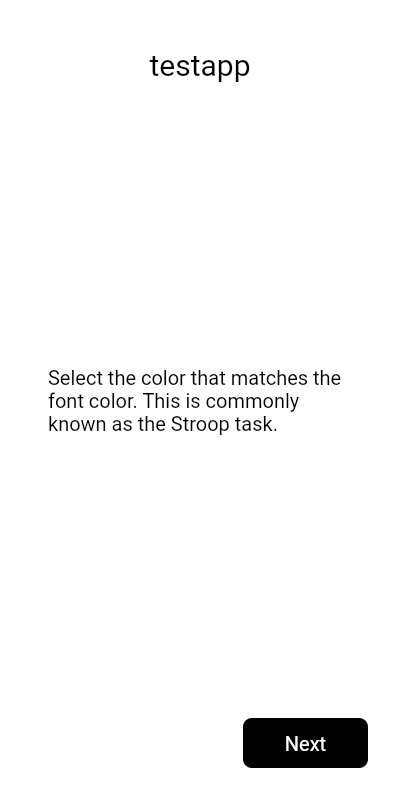
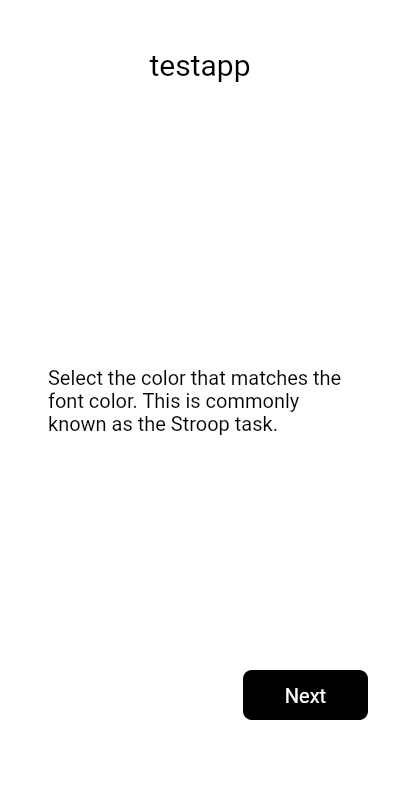
Move instructions buttons up 48 px so not hidden by mobile browser bottom bars

Changed region(s): [[0.6, 0.8125, 0.93, 0.9688]]

diff --git a/packages/addons/src/stories/instructions.ts b/packages/addons/src/stories/instructions.ts
@@ -269,7 +269,7 @@ export class Instructions extends Story {
           size: { width: backButtonWidth, height: backButtonHeight },
           layout: {
             marginStart: 32,
-            marginBottom: 32,
+            marginBottom: 80,
             constraints: { bottomToBottomOf: scene, startToStartOf: scene },
           },
         });
@@ -291,7 +291,7 @@ export class Instructions extends Story {
         size: { width: nextButtonWidth, height: nextButtonHeight },
         layout: {
           marginEnd: 32,
-          marginBottom: 32,
+          marginBottom: 80,
           constraints: { bottomToBottomOf: scene, endToEndOf: scene },
         },
       });

diff --git a/integration-tests/cli-test/specs/testApp.spec.ts b/integration-tests/cli-test/specs/testApp.spec.ts
@@ -36,10 +36,10 @@ describe("m2c2 cli starter app", () => {
   it("should advance to next page and create a scene2 that pixel matches our reference scene2", async () => {
     /**
      * x, y arguments to click are OFFSETS from CENTER of element
-     * Thus, 110, 340 is in the hit area of the NEXT button
+     * Thus, 110, 292 is in the hit area of the NEXT button
      * from the center of our 400 wide by 800 high canvas
      */
-    await canvasElement.click({ x: 110, y: 340 });
+    await canvasElement.click({ x: 110, y: 292 });
     await browser.pause(1000);
 
     const canvasPng = await elementToPng(canvasElement);
